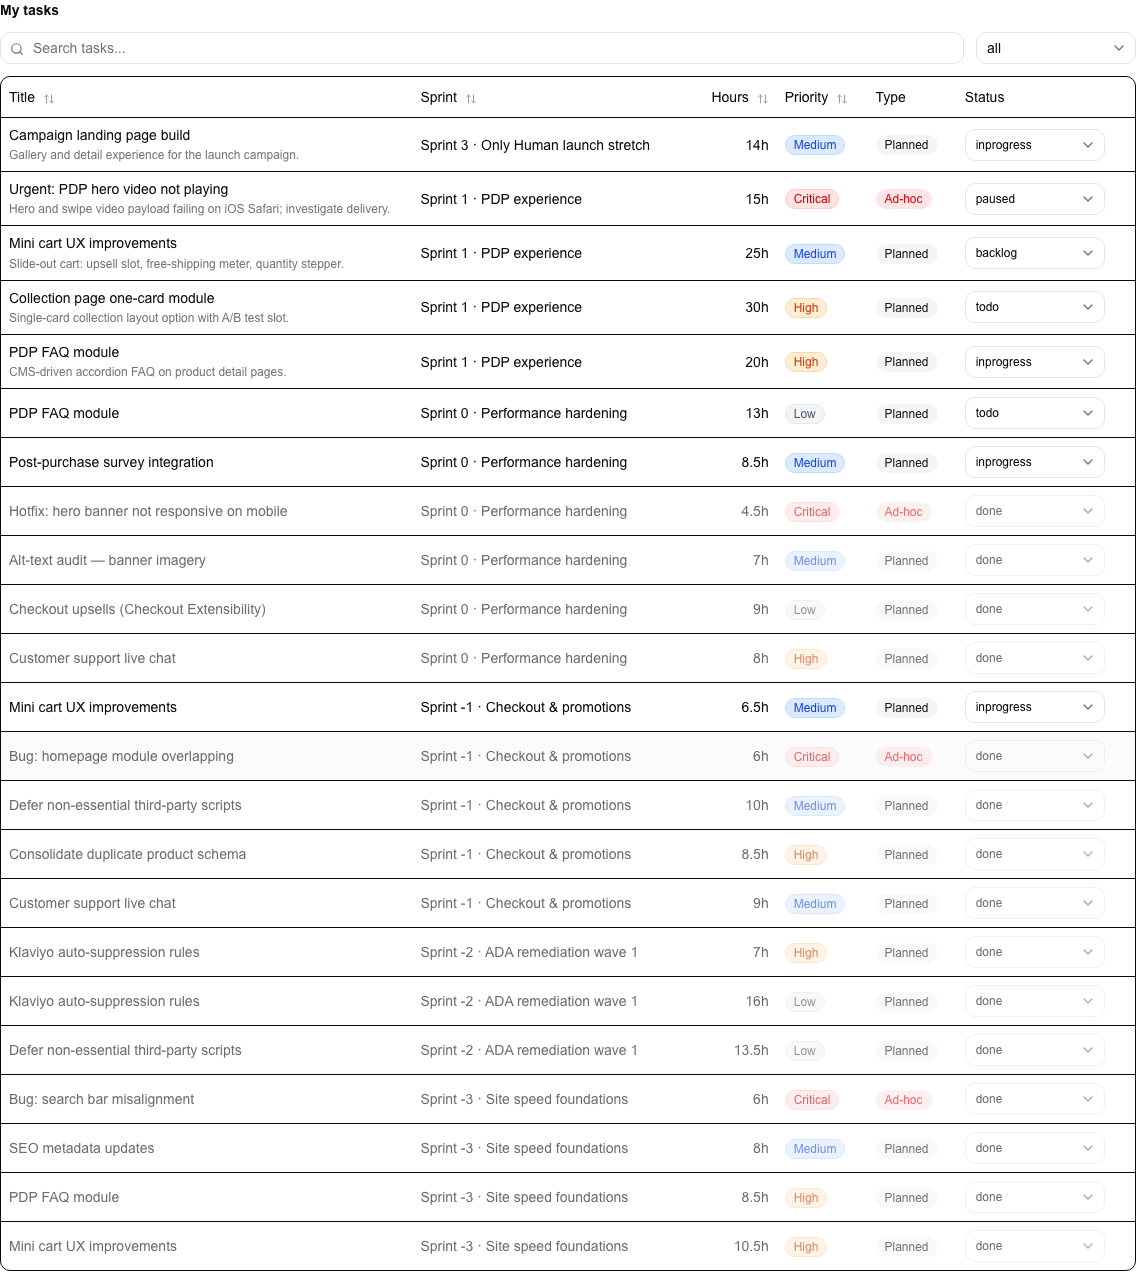
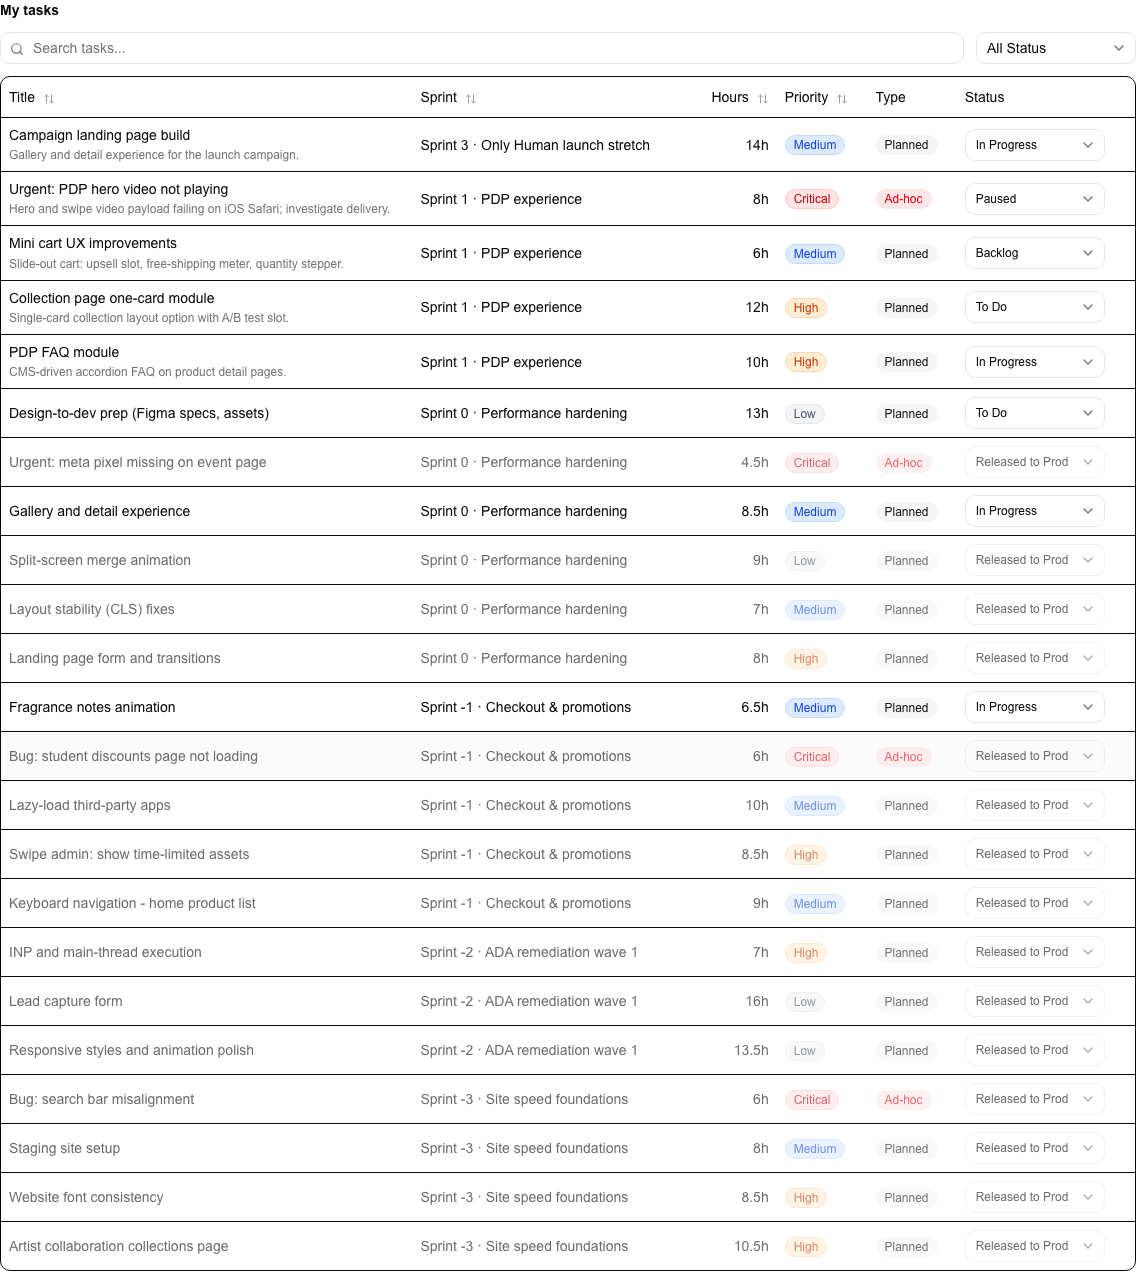
Fix screenshot script toggle locator; recapture all 27 figures
Now that Sprint 1 renders a rebalancing suggestion, its rows share the
'rounded-lg border' classes of the Table/Board toggle, so the unscoped
locator clicked Table instead of Board (the kanban capture timed out)
and the following step would have clicked the suggestion's Apply button
and reassigned a task. The locator is now scoped to the Tasks header.

All 27 figures recaptured from a fresh seed: 161% capacity cards,
Sprint 1 rebalancing (Angelo -> Kusalni), effective-capacity simulator,
100% alarm precision, labelled dropdowns, plain dashes.

diff --git a/scripts/capture-screenshots.ts b/scripts/capture-screenshots.ts
@@ -300,7 +300,13 @@ async function main() {
     });
 
     // Kanban needs a wider viewport: 8 columns × 260px overflow 1440px.
-    const toggle = m.locator("div.flex.rounded-lg.border button");
+    // Scoped to the Tasks header: rebalancing suggestion rows share the same
+    // "rounded-lg border" classes and carry an Apply button, so an unscoped
+    // locator can click Apply and reassign a task in the demo data.
+    const toggle = m
+      .getByRole("heading", { name: "Tasks" })
+      .locator("xpath=..")
+      .locator("div.rounded-lg.border button");
     await toggle.nth(1).click();
     await m.getByText("Released to Prod").first().waitFor();
     await m.setViewportSize(WIDE_VIEWPORT);

diff --git a/docs/screenshots/MANIFEST.md b/docs/screenshots/MANIFEST.md
@@ -1,6 +1,6 @@
 # Screenshot Manifest — Dissertation Figures
 
-Generated 2026-09-13 by `npm run screenshots` (reseeds the demo database, then captures via Playwright/Chromium at 1440×900, light theme).
+Generated 2026-09-27 by `npm run screenshots` (reseeds the demo database, then captures via Playwright/Chromium at 1440×900, light theme).
 
 Capture modes: **full** = full-page scroll capture · **viewport** = visible fold only · **element** = cropped card/section (clean figure crops).
 
@@ -12,9 +12,9 @@ Capture modes: **full** = full-page scroll capture · **viewport** = visible fol
 | 04-projects-list.png | manager | /projects | All three seeded projects with sprint counts | Figure: the project portfolio (demo data derived from real agency work items). | full |
 | 05-project-detail.png | manager | /projects/[id] | NOYZ Storefront: sprint grid (4 historic + Sprint 1) and the sprint velocity chart | Figure: project detail with the velocity chart comparing planned against completed hours per sprint. | full |
 | 06-sprint-overview.png | manager | /sprints/[id] (Sprint 1) | Top of the sprint page: project/date badges, health badge with recommendation tooltip, burndown and forecast entering the fold | Figure: the Sprint 1 · PDP experience detail page — the engineered overloaded sprint. | viewport |
-| 07-sprint-forecast-card.png | manager | /sprints/[id] (Sprint 1) | ForecastCard: failure probability (~73%, High risk), headline, and all five contributor signals with points and plain-English detail | Figure: the five-signal sprint forecast. Each contributor is shown with its points and rationale, keeping the model explainable rather than black-box. | element |
-| 08-capacity-cards.png | manager | /sprints/[id] (Sprint 1) | Per-developer capacity cards. Angelo: ×1.28 factor badge, 90h active / 22.4h effective (402%), 12h/wk meetings, 'Shared with 1 other sprint · ×0.50 multi-project' naming Sprint 3 | Figure: per-developer capacity cards showing the full multiplier chain — meetings, buffer, and the cross-sprint allocation factor compose into 22.4h effective capacity. | element |
-| 09-rebalancing.png | manager | /sprints/[id] (Sprint 3) | Rebalancing panel: task, hours, priority, from → to developer, projected utilisation for both, one-click Apply | Figure: automated rebalancing suggestions — moving a low-priority task off an overloaded developer to one with genuine headroom, with projected post-move utilisation for both. | element |
+| 07-sprint-forecast-card.png | manager | /sprints/[id] (Sprint 1) | ForecastCard: failure probability (~70%, High risk), headline, and all five contributor signals with points and plain-English detail | Figure: the five-signal sprint forecast. Each contributor is shown with its points and rationale, keeping the model explainable rather than black-box. | element |
+| 08-capacity-cards.png | manager | /sprints/[id] (Sprint 1) | Per-developer capacity cards. Angelo: ×1.28 factor badge, 36h active / 22.4h effective (161%), adj. 17.5h (206%), 12h/wk meetings, 'Shared with 1 other sprint · ×0.50 multi-project' naming Sprint 3 | Figure: per-developer capacity cards showing the full multiplier chain — meetings, buffer, and the cross-sprint allocation factor compose into 22.4h effective capacity. | element |
+| 09-rebalancing.png | manager | /sprints/[id] (Sprint 1) | Rebalancing panel: 'Mini cart UX improvements' (6h, medium) from Angelo to Kusalni, with projected utilisation for both (Angelo 134%, Kusalni 99%) and one-click Apply | Figure: automated rebalancing suggestion — the lowest-priority task that fits a teammate's remaining headroom is proposed for reassignment, with projected post-move utilisation for both developers. | element |
 | 10-burndown.png | manager | /sprints/[id] (Sprint 1) | Burndown indicator: expected vs actual progress bars, status badge, day N of M | Figure: burndown comparing calendar-expected progress against completed hours. | element |
 | 11-task-table.png | manager | /sprints/[id] (Sprint 1) | Task table view: search, status filter, sortable columns, per-row status dropdown, priority badges, real ticket titles | Figure: the sprint task table (table view). | full |
 | 12-kanban.png | manager | /sprints/[id] (Sprint 1) | Kanban board with all eight workflow columns (Backlog → Released to Prod) and drag-and-drop task cards | Figure: the eight-state Kanban board. Only 'Released to Prod' is terminal for capacity purposes; a paused task still consumes capacity. | element |
@@ -27,7 +27,7 @@ Capture modes: **full** = full-page scroll capture · **viewport** = visible fol
 | 19-developers-accuracy.png | manager | /developers | Developer table: weekly capacity, meetings/week, and the estimation factor column (×factor, trend arrow, sample size, confidence) for all five personas | Figure: learned estimation-accuracy factors — Angelo ×1.28 (under-estimates, n=15 high confidence), Kusalni ×0.81 (over-estimates), Abdulaziz at n=1 showing Bayesian shrinkage holding the factor near 1.0. | full |
 | 20-evaluation.png | manager | /evaluation | Calibration chart (predicted failure bars vs actual completion line) and the four-sprint table with hit / false-alarm / missed-alarm counters | Figure: retroactive forecast evaluation — each completed sprint re-forecast using only data available at its start. 2 correct alarms, 0 false alarms, 0 missed alarms. | full |
 | 21-admin-users.png | manager | /admin/users | All accounts with role, linked developer profile, and client project access; the unlinked-account state visible | Figure: Team & Access — where a manager assigns roles, links login accounts to developer profiles, and scopes client access to projects. | full |
-| 22-my-work-overview.png | developer | /my-work | Top of My Work: open tasks (8 / 132h), sprints in flight (2), own estimation accuracy, per-sprint load cards with 402% overload | Figure: the developer's personal view — the only screen showing one person's total commitment across concurrent sprints. Teammates are absent from the API response, not hidden by the UI. | viewport |
+| 22-my-work-overview.png | developer | /my-work | Top of My Work: open tasks (8 / 78h), sprints in flight (2), own estimation accuracy, per-sprint load cards with Sprint 1 at 161% overload | Figure: the developer's personal view — the only screen showing one person's total commitment across concurrent sprints. Teammates are absent from the API response, not hidden by the UI. | viewport |
 | 23-my-work-capacity-split.png | developer | /my-work | The multiplier-chain breakdown: weekly hours − meetings → × sprint weeks → × buffer → × cross-sprint split, reconciling to 22.4h effective | Figure: 'Why your capacity is split' — every multiplier in the capacity chain shown first-person, with the arithmetic reconciling to the final effective figure. | element |
 | 24-my-work-tasks.png | developer | /my-work | Personal task list across all sprints — Sprint column in place of Assignee, status changes and actual-hours logging enabled, no edit/delete | Figure: the developer's task list. The server strips assignee data for this role, so the table shows a Sprint column instead — a leak is impossible by construction. | element |
 | 25-portfolio.png | client | /portfolio | Delivery landing: one project card (NOYZ Storefront) with completion percentage and the softened confidence label | Figure: the client's delivery portfolio — completion and a confidence band only. No developer names, utilisation figures, or capacity internals anywhere in the response. | full |
@@ -37,9 +37,7 @@ Capture modes: **full** = full-page scroll capture · **viewport** = visible fol
 ## Notes and discrepancies
 
 - **08-capacity-cards.png** — The breakdown lines are always visible on these cards; nothing needed expanding.
-- **09-rebalancing.png** — Discrepancy vs. brief: on Sprint 1 the algorithm correctly produces no suggestions (every potential recipient is overloaded or lacks headroom for any candidate task), so the panel renders nothing there. Captured on Sprint 3 · Only Human launch stretch, where a genuine suggestion exists. This is the algorithm working as designed, not a missing feature.
 - **12-kanban.png** — Captured at a temporarily widened viewport (2600px) so all eight columns are visible — the board scrolls horizontally at the standard 1440px.
 - **13-actual-hours-prompt.png** — Dismissed with Escape (the dialog's cancel path) after capture, so the task's status was not changed.
 - **14-retro-notes.png** — Discrepancy vs. brief: seeded retrospective text exists only on completed sprints, so this shows Sprint 0 · Performance hardening (an Aurora Living E-Commerce sprint), not Sprint 1.
-- **20-evaluation.png** — STALE FIGURE: this capture still shows the since-fixed alarm-precision bug ('50%' where the methodology's hits/(hits+false alarms) formula gives 100%). The formula was corrected in src/app/(authenticated)/evaluation/page.tsx after this capture; the next `npm run screenshots` run will show 100%. Do not use this figure in the report until re-captured.
 - **27-client-forbidden.png** — Observed behaviour: redirect to /portfolio rather than a rendered 403 page — the UI guard is cosmetic, the API is the security boundary.
